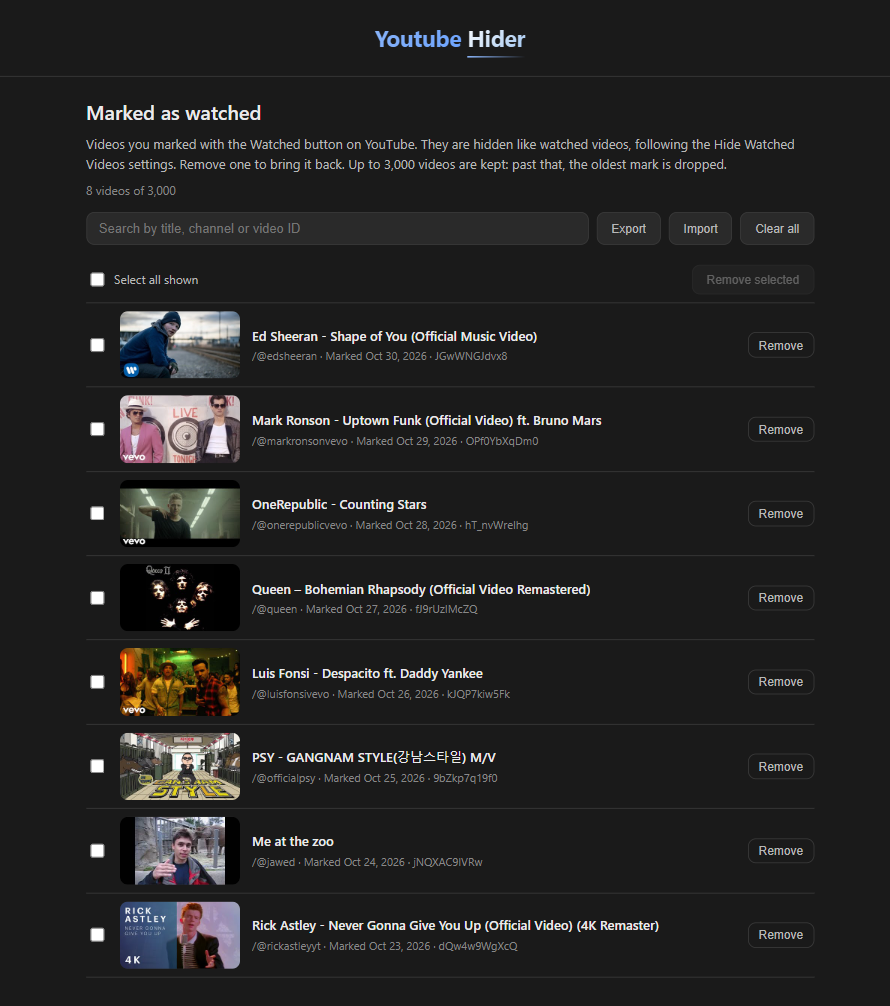
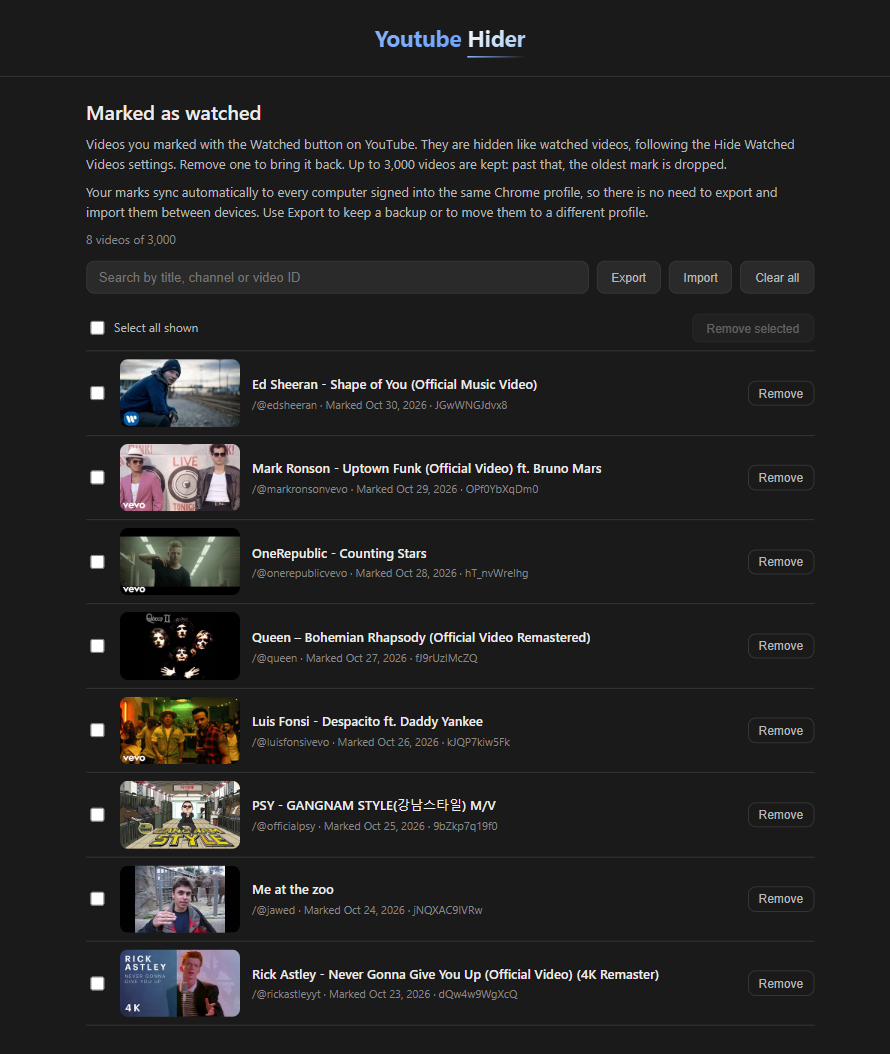
fix: say on the manager page that marked videos sync on their own
With Export and Import on the page, a user could think they have to move
the list between devices by hand. The intro now says marks sync
automatically across the same Chrome profile and that Export is for
backups or another profile. The website screenshot is regenerated.

diff --git a/popup/watched.html b/popup/watched.html
@@ -26,6 +26,12 @@
           Remove one to bring it back. Up to 3,000 videos are kept: past that,
           the oldest mark is dropped.
         </p>
+        <p class="watched-description">
+          Your marks sync automatically to every computer signed into the same
+          Chrome profile, so there is no need to export and import them between
+          devices. Use Export to keep a backup or to move them to a different
+          profile.
+        </p>
         <p class="watched-count" id="watched-count" aria-live="polite"></p>
       </section>
 

diff --git a/docs/index.html b/docs/index.html
@@ -964,7 +964,7 @@
         <div class="col-12 col-lg-7">
           <img src="assets/images/watched-manager.png"
             alt="The Marked as watched page, listing marked videos with thumbnail, title, channel and date, a search box, and Export, Import and Clear all buttons"
-            class="watched-shot img-fluid" width="890" height="1006" loading="lazy" />
+            class="watched-shot img-fluid" width="890" height="1054" loading="lazy" />
         </div>
       </div>
     </div>
